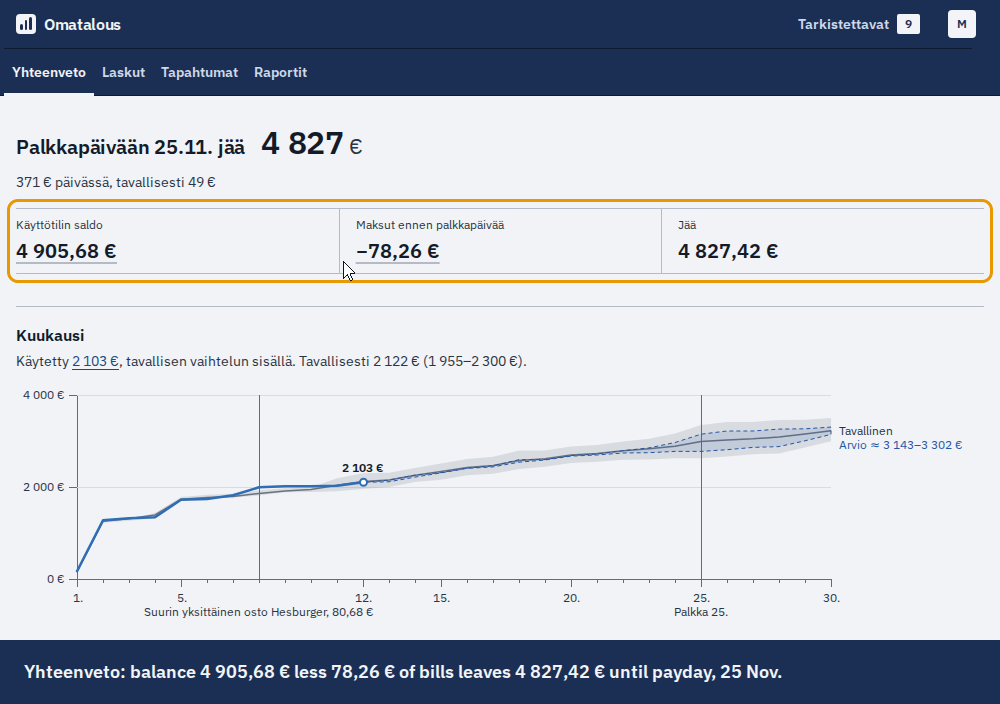
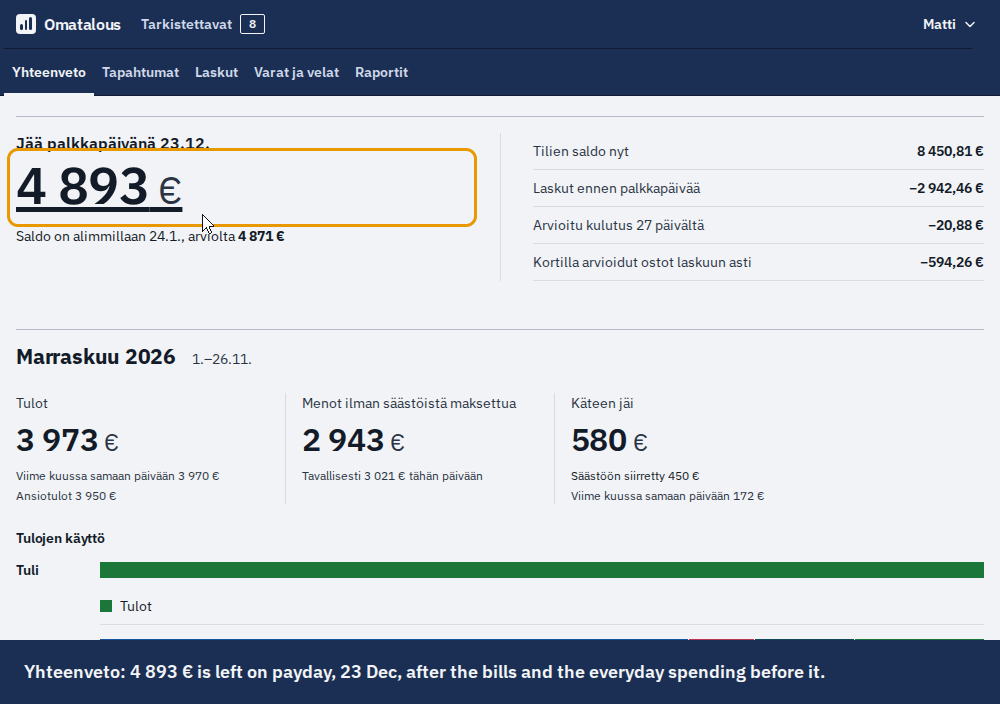
Docs: make the README film again from the current pages
The film steps still looked for the old Yhteenveto, Tapahtumat, Laskut and Raportit pages and stopped, so the pictures were never rewritten.

diff --git a/README.md b/README.md
@@ -7,7 +7,7 @@ due before it.
 
 <picture>
   <source media="(prefers-reduced-motion: reduce)" srcset="docs/images/tour-still.png">
-  <img src="docs/images/tour.png" alt="The app with the example household: the example data is loaded, the transactions get payees and categories, Yhteenveto takes the bills before payday from the balance, Laskut lists those bills, Raportit opens a category's rows, and the same pages show on a phone" width="1000">
+  <img src="docs/images/tour.png" alt="The app with the example household: the example data is loaded, the transactions get payees and categories, Yhteenveto shows the sum left on payday after the bills before it, Laskut lists the month's bills by day, Raportit shows income and spending by month, and the same pages show on a phone" width="1000">
 </picture>
 
 <img src="docs/images/overview-phone.png" alt="Yhteenveto on a phone, with the example household" width="260">
